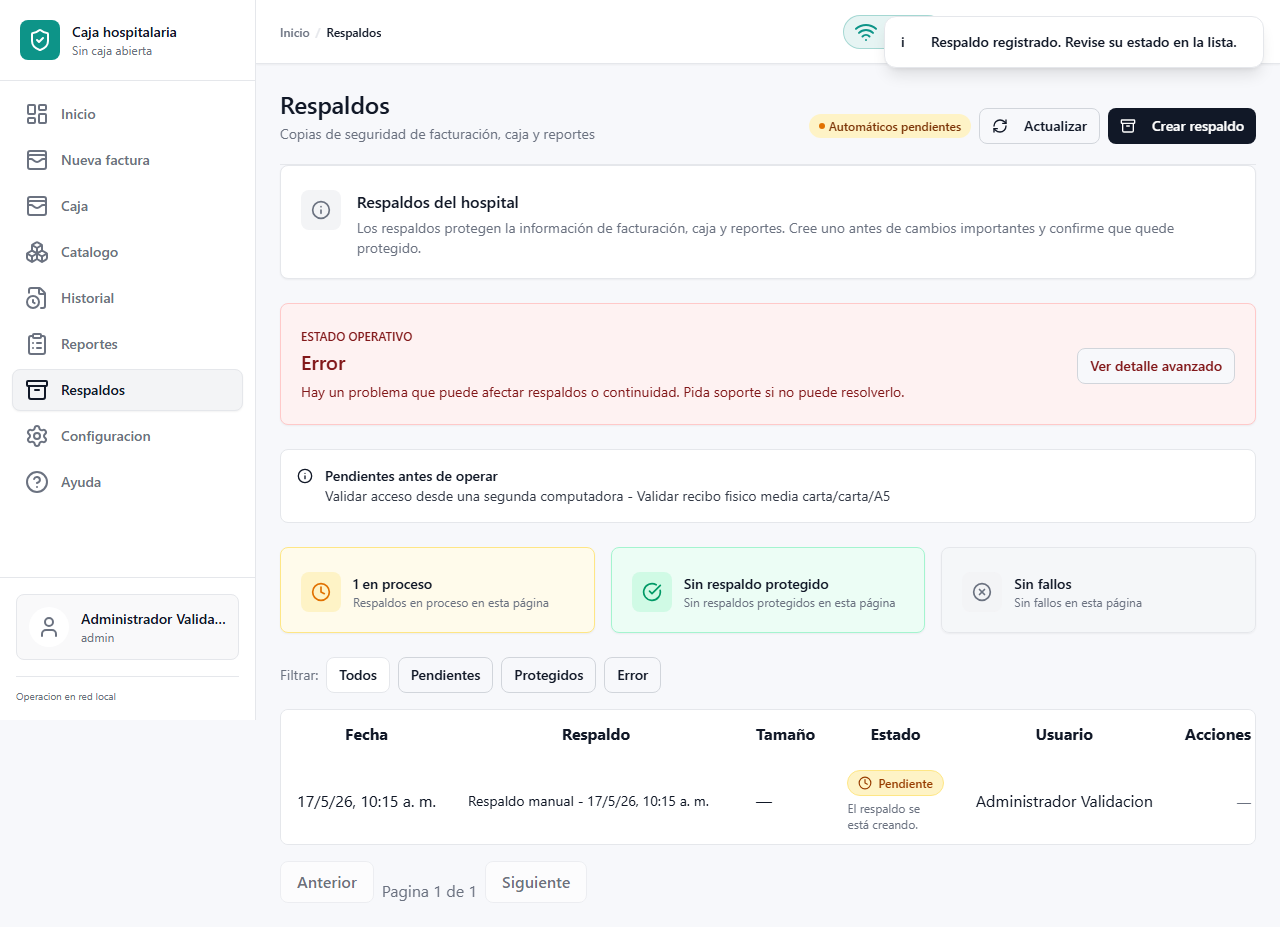
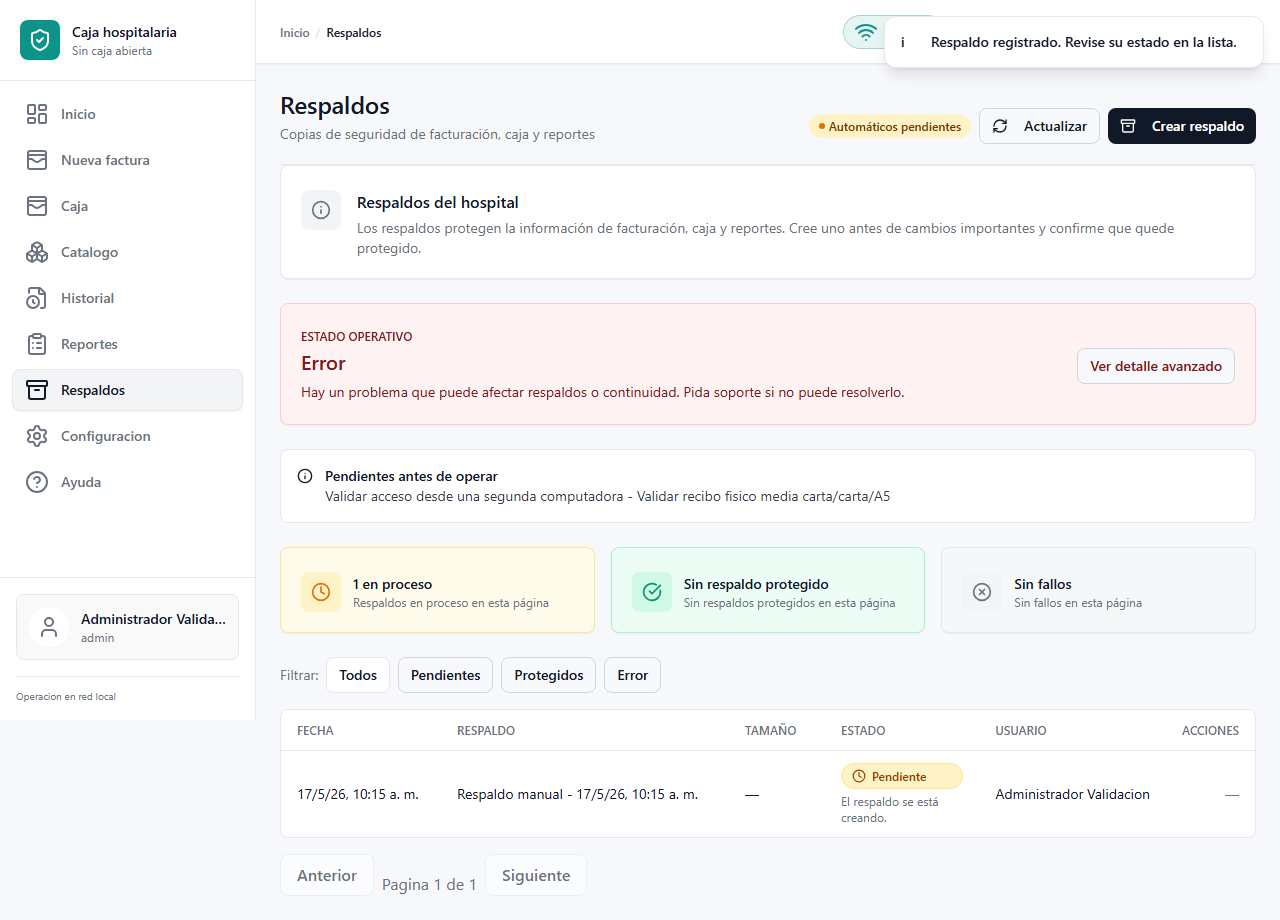
fix(reports): improve financial table readability

diff --git a/frontend/src/features/reports/ReportsView.test.tsx b/frontend/src/features/reports/ReportsView.test.tsx
@@ -1,4 +1,5 @@
 /// <reference types="node" />
+import { readFileSync } from 'node:fs';
 import { cleanup, fireEvent, render, screen, waitFor } from '@testing-library/react';
 import { afterEach, beforeEach, describe, expect, it, vi } from 'vitest';
 import { App } from '../../App';
@@ -31,6 +32,14 @@ describe('ReportsView', () => {
   afterEach(() => {
     cleanup();
     queryClient.clear();
+  });
+
+  it('keeps shared report tables readable with default spacing', () => {
+    const styles = readFileSync('src/styles.css', 'utf8');
+
+    expect(styles).toMatch(/\.data-table\s*{[\s\S]*@apply[\s\S]*w-full[\s\S]*text-sm/);
+    expect(styles).toMatch(/\.data-table th\s*{[\s\S]*@apply[\s\S]*px-4[\s\S]*py-3[\s\S]*text-left/);
+    expect(styles).toMatch(/\.data-table td\s*{[\s\S]*@apply[\s\S]*border-t[\s\S]*px-4[\s\S]*py-3/);
   });
 
   it('renders reports view for a user with reports view permission', async () => {

diff --git a/frontend/src/styles.css b/frontend/src/styles.css
@@ -287,7 +287,17 @@ html.dark {
     @apply overflow-x-auto rounded-xl border border-border bg-card;
   }
 
+  .data-table {
+    @apply w-full border-collapse text-sm;
+  }
 
+  .data-table th {
+    @apply px-4 py-3 text-left text-xs font-semibold uppercase tracking-normal text-muted-foreground;
+  }
+
+  .data-table td {
+    @apply border-t border-border px-4 py-3 align-middle;
+  }
 
   .history-filters,
   .range-filters {

diff --git a/qa/BROWSER_SMOKE_EVIDENCE_2026_06_07.md b/qa/BROWSER_SMOKE_EVIDENCE_2026_06_07.md
@@ -25,6 +25,7 @@ Observed result:
 - The JSON report records `mode: mocked-e2e`, `console_issues: []` and the explicit note that captures do not replace LAN, MySQL/MariaDB or physical printer proof.
 - Screenshots were captured for dashboard light/dark, cashbox open, new invoice empty/cart, receipt media carta/carta/A5/dark, reports and backups.
 - Visual review of `qa\browser-smoke-2026-06-07\billing-new-empty-light.png` confirmed the search placeholder no longer mentions code entry while scanner support is disabled, and active services remain visible in `Todos`.
+- Visual review of `qa\browser-smoke-2026-06-07\reports-admin-light.png` confirmed financial report tables now use full-width rows with separated headers, amounts and status counts for easier administrative review.
 - Visual review of `qa\browser-smoke-2026-06-07\backups-pending-light.png` confirmed only one status notice remains visible and the primary backup actions are no longer covered.
 - Visual review of `qa\browser-smoke-2026-06-07\backups-pending-light.png` confirmed the normal backup summary uses `Error`, while the backup row uses `Pendiente`; it no longer shows `Todo bien` or `Requiere revision` as normal state labels.
 - Visual review of `qa\browser-smoke-2026-06-07\receipt-preview-dark.png` confirmed the mocked receipt no longer shows the old validation CAI marker, an invented fiscal range or an invented expiration date.

diff --git a/docs/DECISIONS.md b/docs/DECISIONS.md
@@ -3678,3 +3678,8 @@ Validacion: vitest ServiceSearch, typecheck, lint/build, branding, e2e y browser
 La tarjeta principal de Respaldos deja de usar Todo bien o Requiere revision como estado normal y usa solo Protegido, Pendiente o Error, alineado con el lenguaje solicitado para administracion no tecnica.
 Si el entorno aun no esta production_ready, el resumen queda Pendiente aunque no haya bloqueantes detallados, evitando presentar el servidor como protegido antes de cerrar pruebas finales.
 Validacion: vitest BackupsView a11y, typecheck, lint/build, branding, e2e y browser smoke de Respaldos.
+
+## 2026-06-07 - tablas financieras usan espaciado compartido legible
+La captura de Reportes mostro tablas de lectura financiera, metodos de pago y estados de factura con columnas demasiado apretadas para revision administrativa.
+Se agregan estilos base a data-table para ancho completo, padding de encabezados/celdas y separacion de filas, de modo que reportes, caja, auditoria y listados compartan una lectura mas clara sin recalcular datos ni tocar backend.
+Validacion: vitest ReportsView, typecheck, lint/build, branding, e2e y browser smoke de Reportes.
